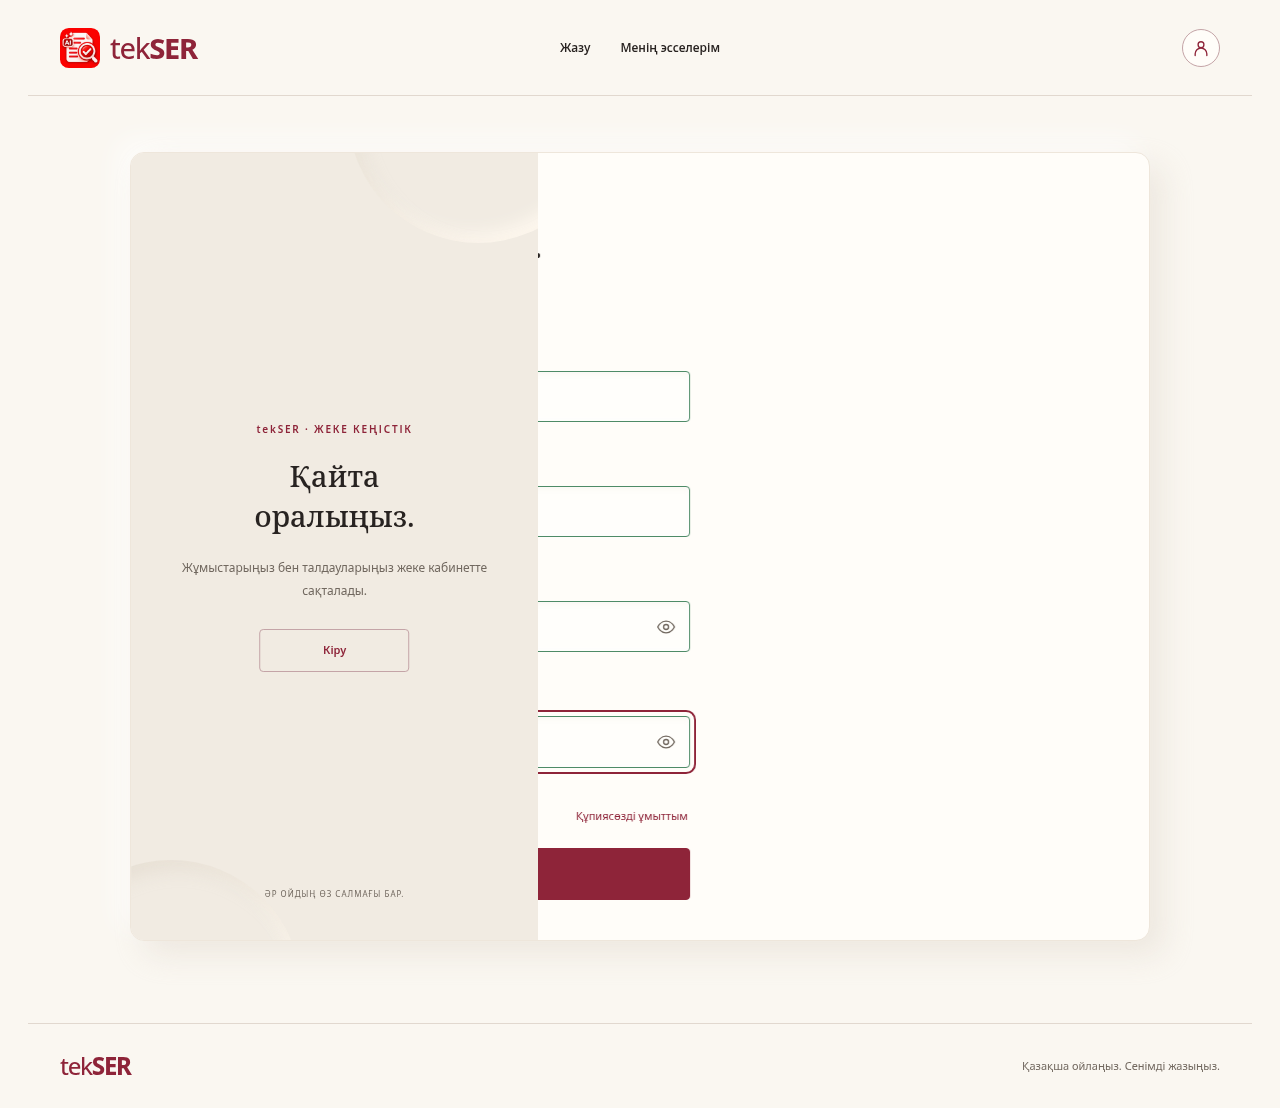
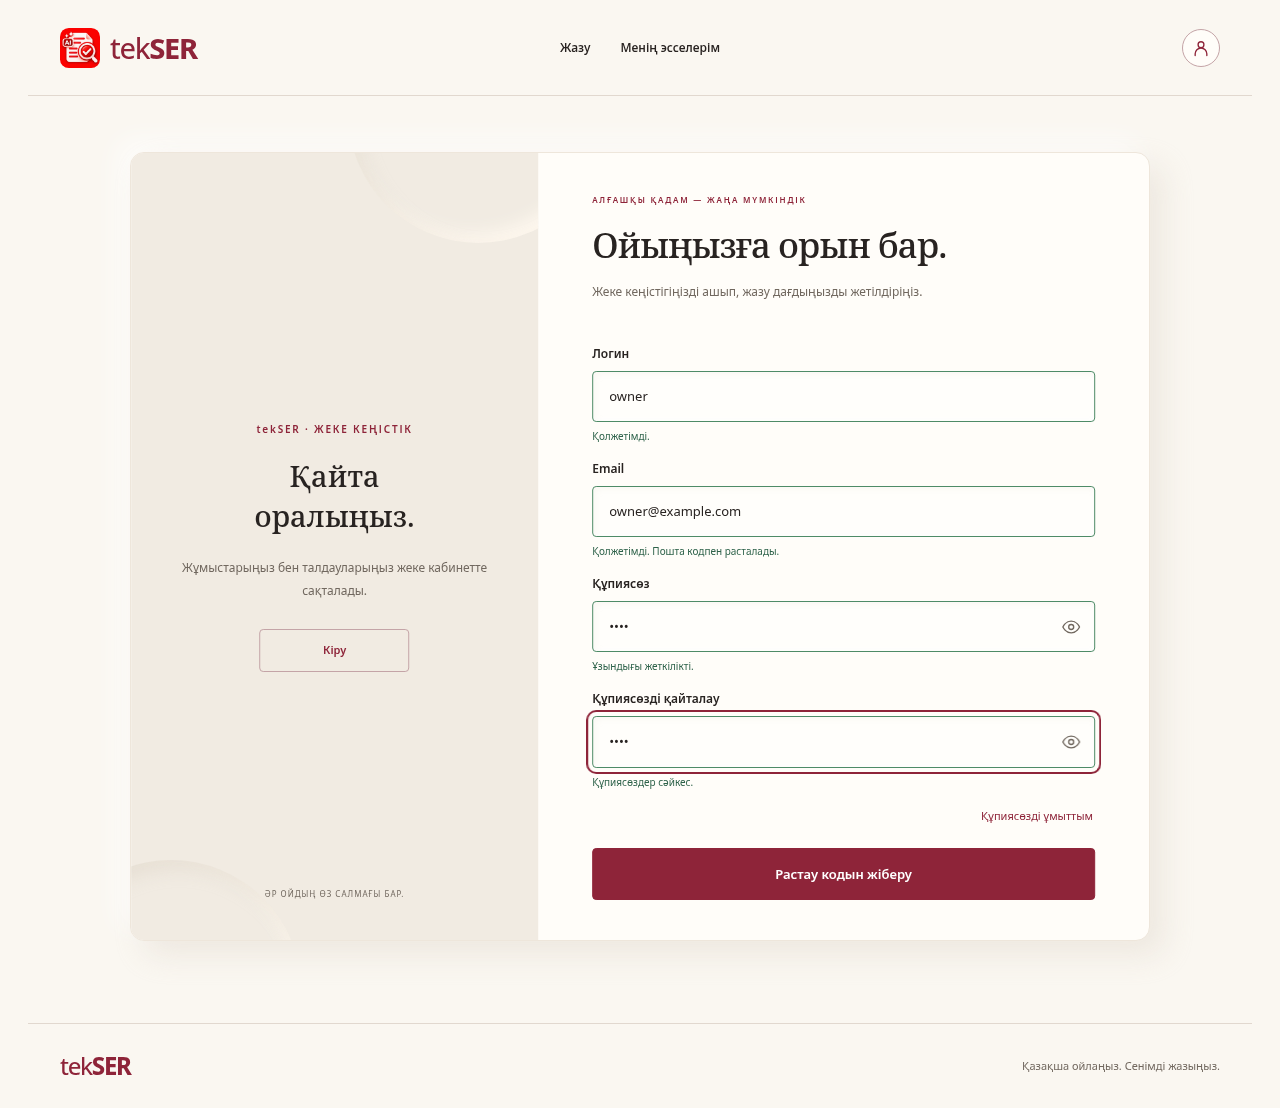
Stabilize animated registration screenshots during browser capture

diff --git a/tests/browser_smoke.py b/tests/browser_smoke.py
@@ -193,7 +193,11 @@ def main():
                 admin_page.locator("#register-password").fill("abcd")
                 admin_page.locator("#register-confirmation").fill("abcd")
                 admin_page.wait_for_timeout(700)
-                admin_page.screenshot(path=str(Path(tempfile.gettempdir()) / "tekser-auth-register.png"), full_page=True)
+                assert admin_page.locator("#register-username").evaluate("(input)=>{const r=input.getBoundingClientRect(); return document.elementFromPoint(r.x+r.width/2,r.y+r.height/2)===input;}")
+                # Full-page capture resizes Chromium's surface; freeze transitions only
+                # during the snapshot so it records the settled UI, not a resize frame.
+                admin_page.screenshot(path=str(Path(tempfile.gettempdir()) / "tekser-auth-register.png"), full_page=True,
+                    animations="disabled", style=".auth-stage,.auth-aside{transition:none!important;}")
                 for width in (320, 390, 768, 1024):
                     admin_page.set_viewport_size({"width": width, "height": 844})
                     assert not admin_page.evaluate("()=>document.documentElement.scrollWidth>innerWidth"), width
